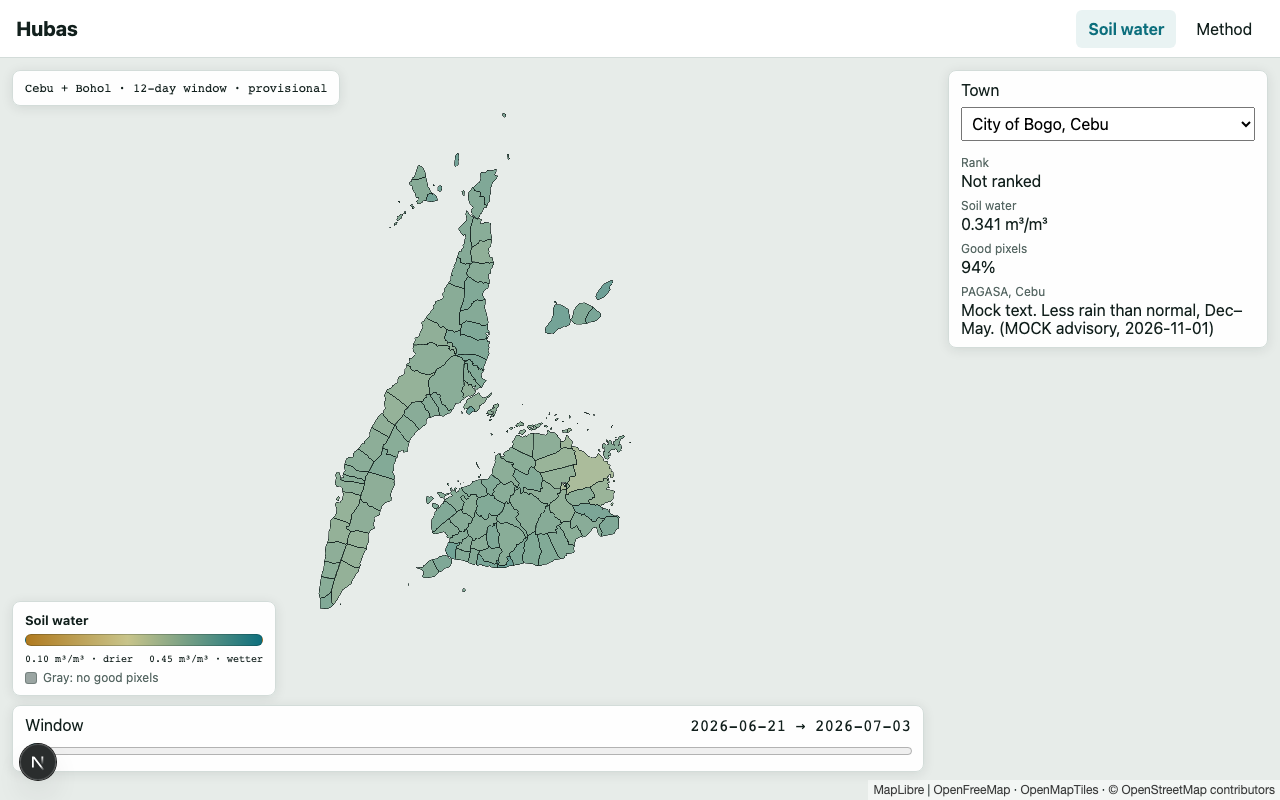
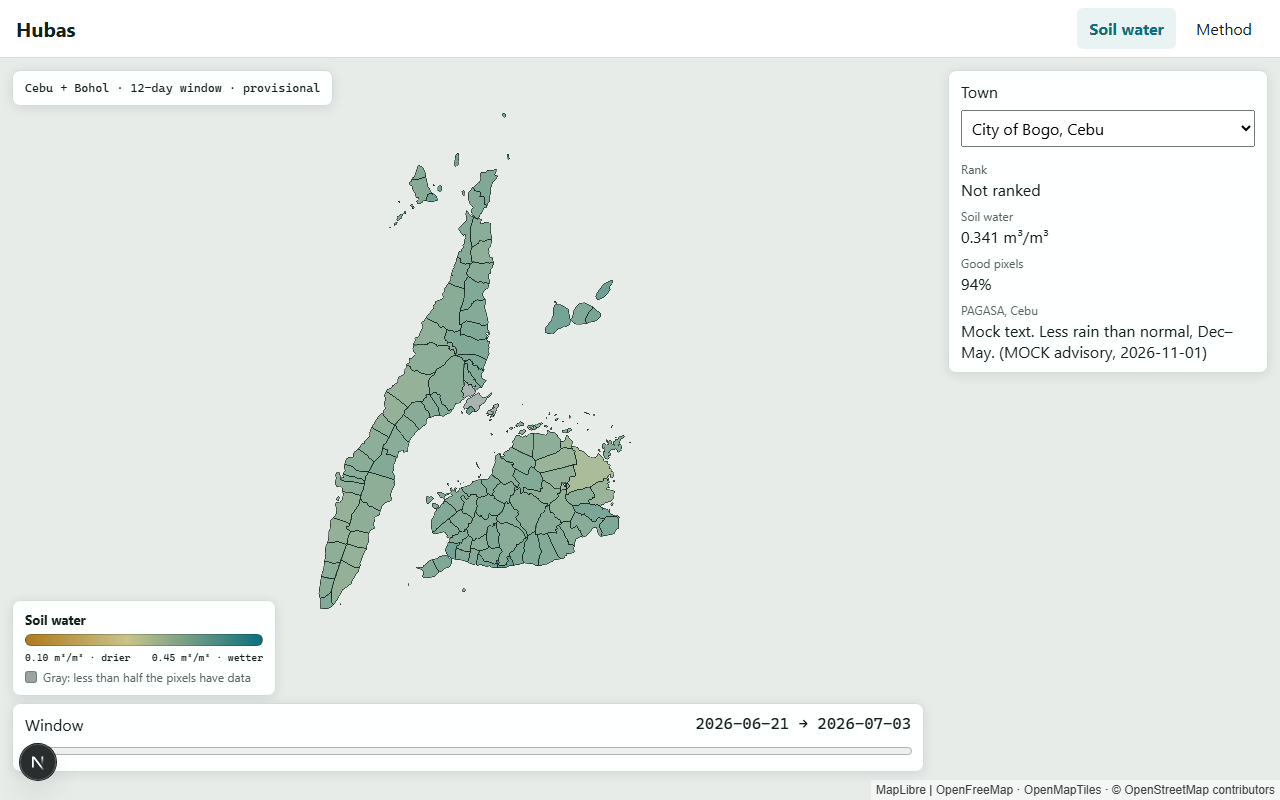
feat: grey the towns with less than half the pixels on the map [sc-71]
Antequera had 0.7% of its pixels in two windows and the same colour as a
town with 94%. This is the 50% rule of the rank (sc-120), applied to the
map. The panel still shows the value and the share.

diff --git a/app/src/app/Explorer.tsx b/app/src/app/Explorer.tsx
@@ -58,7 +58,8 @@ export default function Explorer({ manifest, lgus, outlooks }: { manifest: Manif
           "fill-outline-color": "#12201d",
           "fill-color": [
             "case",
-            ["==", ["feature-state", "sm"], null],
+            // Same 50% rule as the rank (sc-120): a town with less than half its pixels is not coloured.
+            ["any", ["==", ["feature-state", "sm"], null], ["<", ["coalesce", ["feature-state", "share"], 0], 0.5]],
             "#9aa5a2",
             ["interpolate", ["linear"], ["feature-state", "sm"], 0.1, "#b07a1f", 0.25, "#c8c48a", 0.45, "#0d6f7d"],
           ],
@@ -78,7 +79,7 @@ export default function Explorer({ manifest, lgus, outlooks }: { manifest: Manif
 
   useEffect(() => {
     if (!map) return;
-    for (const lgu of lgus) map.setFeatureState({ source: SOURCE, id: lgu.psgc }, { sm: lgu.soilMoisture[windowIndex] });
+    for (const lgu of lgus) map.setFeatureState({ source: SOURCE, id: lgu.psgc }, { sm: lgu.soilMoisture[windowIndex], share: lgu.validShare[windowIndex] });
   }, [map, lgus, windowIndex]);
 
   const win = manifest.windows[windowIndex];
@@ -98,7 +99,7 @@ export default function Explorer({ manifest, lgus, outlooks }: { manifest: Manif
           <span>0.10 m³/m³ · drier</span>
           <span>0.45 m³/m³ · wetter</span>
         </div>
-        <p><span className="no-data-swatch" aria-hidden="true" /> Gray: no good pixels</p>
+        <p><span className="no-data-swatch" aria-hidden="true" /> Gray: less than half the pixels have data</p>
       </section>
 
       <form className="slider" onSubmit={(e) => e.preventDefault()}>

diff --git a/app/e2e/soil-water-data.spec.ts b/app/e2e/soil-water-data.spec.ts
@@ -5,6 +5,7 @@ import { saveProof } from "./proof";
 
 const BOGO = "0702211000";
 const TUBIGON = "0701245000";
+const MANDAUE = "0731300000";
 
 test("every town has real soil water and coverage for each window", async ({ request }) => {
   const lgus: Lgu[] = await (await request.get("/data/lgus.json")).json();
@@ -46,6 +47,18 @@ test("the map and the panel show a town with data and a town with no data in a w
   await page.getByLabel("Town").selectOption(BOGO);
   await expect(page.getByTestId("moisture")).toHaveText(`${bogo.soilMoisture[0]!.toFixed(3)} m³/m³`);
   await expect.poll(() => state(BOGO)).toBe(bogo.soilMoisture[0]);
+  // A town with less than half its pixels is grey on the map, but the panel still gives its value.
+  const mandaue = lgus.find((l) => l.psgc === MANDAUE)!;
+  expect(mandaue.soilMoisture[0]).not.toBeNull();
+  expect(mandaue.validShare[0]).toBeLessThan(0.5);
+  const fill = (psgc: string) =>
+    page.evaluate((id) => {
+      const layer = window.hubasMap!.queryRenderedFeatures({ layers: ["soil"] }).find((f) => f.id === id)?.layer;
+      return layer?.type === "fill" ? String(layer.paint?.["fill-color"]) : undefined;
+    }, psgc);
+  const grey = "rgba(154,165,162,1)"; // #9aa5a2 in Explorer.tsx
+  await expect.poll(() => fill(MANDAUE)).toBe(grey);
+  expect(await fill(BOGO)).not.toBe(grey);
   await page.waitForFunction(() => window.hubasMap!.loaded());
   await saveProof(page, "sc-71-map-window-1.png");
 

diff --git a/app/src/app/method/page.tsx b/app/src/app/method/page.tsx
@@ -27,7 +27,7 @@ export default function MethodPage() {
         <p>The processing method combines all NISAR passes in each 12-day window before calculating
           the average for each town. One pass shows mostly Cebu; another shows mostly Bohol.</p>
         <p>Soil water is measured in m³/m³: cubic metres of water per cubic metre of soil.
-          The map colour scale runs from 0.10 (drier) to 0.45 (wetter). Gray means no good pixels.</p>
+          The map colour scale runs from 0.10 (drier) to 0.45 (wetter). Gray means less than half the pixels have data.</p>
         <p>“Good pixels” in the town panel means the share of a town with a valid reading in that window.
           It is coverage, not an accuracy score. A town is “not ranked” if less than half of it has data.</p>
       </section>

diff --git a/app/e2e/soil-water-map.spec.ts b/app/e2e/soil-water-map.spec.ts
@@ -71,7 +71,7 @@ test("soil water legend and map framing work at desktop and mobile widths", asyn
   expect(colorExpression).toContain("#0d6f7d");
   await expect(page.getByTestId("soil-water-legend")).toContainText("0.10 m³/m³ · drier");
   await expect(page.getByTestId("soil-water-legend")).toContainText("0.45 m³/m³ · wetter");
-  await expect(page.getByTestId("soil-water-legend")).toContainText("Gray: no good pixels");
+  await expect(page.getByTestId("soil-water-legend")).toContainText("Gray: less than half the pixels have data");
   await expect(page.getByText("provisional")).toBeVisible();
 
   await page.getByLabel("Window").fill("4");

diff --git a/.claude/skills/verify-hubas/features/soil-water-map.md b/.claude/skills/verify-hubas/features/soil-water-map.md
@@ -1,13 +1,13 @@
 # Soil water map
 
-The map shows Cebu and Bohol on a light base map. Each town is a shape filled by its soil water for the selected window: dry is ochre, wet is teal, and a town with no good pixels is grey. A label at the top left says the data is provisional, and a legend below it explains the colors. The map frames both islands so the label, legend, panel and slider do not cover them.
+The map shows Cebu and Bohol on a light base map. Each town is a shape filled by its soil water for the selected window: dry is ochre, wet is teal, and a town with less than half its pixels with data is grey; the panel still shows its value. A label at the top left says the data is provisional, and a legend below it explains the colors. The map frames both islands so the label, legend, panel and slider do not cover them.
 
 ## Sub-features
 
 - `map-load` shows the base map and every town shape without console errors.
 - `map-colors` fills each town by its soil water in the selected window.
 - `map-label` shows "Cebu + Bohol · 12-day window · provisional".
-- `map-legend` shows "Soil water", "0.10 m³/m³ · drier", "0.45 m³/m³ · wetter" and "Gray: no good pixels".
+- `map-legend` shows "Soil water", "0.10 m³/m³ · drier", "0.45 m³/m³ · wetter" and "Gray: less than half the pixels have data".
 - `map-framing` keeps Cebu and Bohol in view and clear of the overlays, at desktop and phone widths.
 
 ## How to get to it (user POV)
@@ -21,7 +21,7 @@ Preconditions:
 
 - `doctor` reports `ok: true`, including `basemap`.
 
-- **Load.** Open the app. Run `node scripts/control-hubas.mjs drive --name map-load`. `steps` contains `map ready`, `consoleErrors` is empty, `label` is `Cebu + Bohol · 12-day window · provisional`, and `legend` is `["Soil water", "0.10 m³/m³ · drier", "0.45 m³/m³ · wetter", "Gray: no good pixels"]`.
+- **Load.** Open the app. Run `node scripts/control-hubas.mjs drive --name map-load`. `steps` contains `map ready`, `consoleErrors` is empty, `label` is `Cebu + Bohol · 12-day window · provisional`, and `legend` is `["Soil water", "0.10 m³/m³ · drier", "0.45 m³/m³ · wetter", "Gray: less than half the pixels have data"]`.
 - **See the towns.** Open `screenshot.png` in the evidence folder. Every town from `towns` is visible as a filled shape inside Cebu or Bohol, and no overlay covers either island.
 - **Phone layout.** Run `node scripts/control-hubas.mjs drive --viewport 375x812 --name map-phone`. The full-page `screenshot.png` shows the map on top, then the panel, then the slider.
 - **Grey towns.** Run `node scripts/control-hubas.mjs drive --window 3 --name map-w3`. A town with `null` at index 3 of `soilMoisture` in `lgus.json` shows grey. In windows 3 and 10, 29 of the 48 Bohol towns are grey; in the other windows no town is grey.
